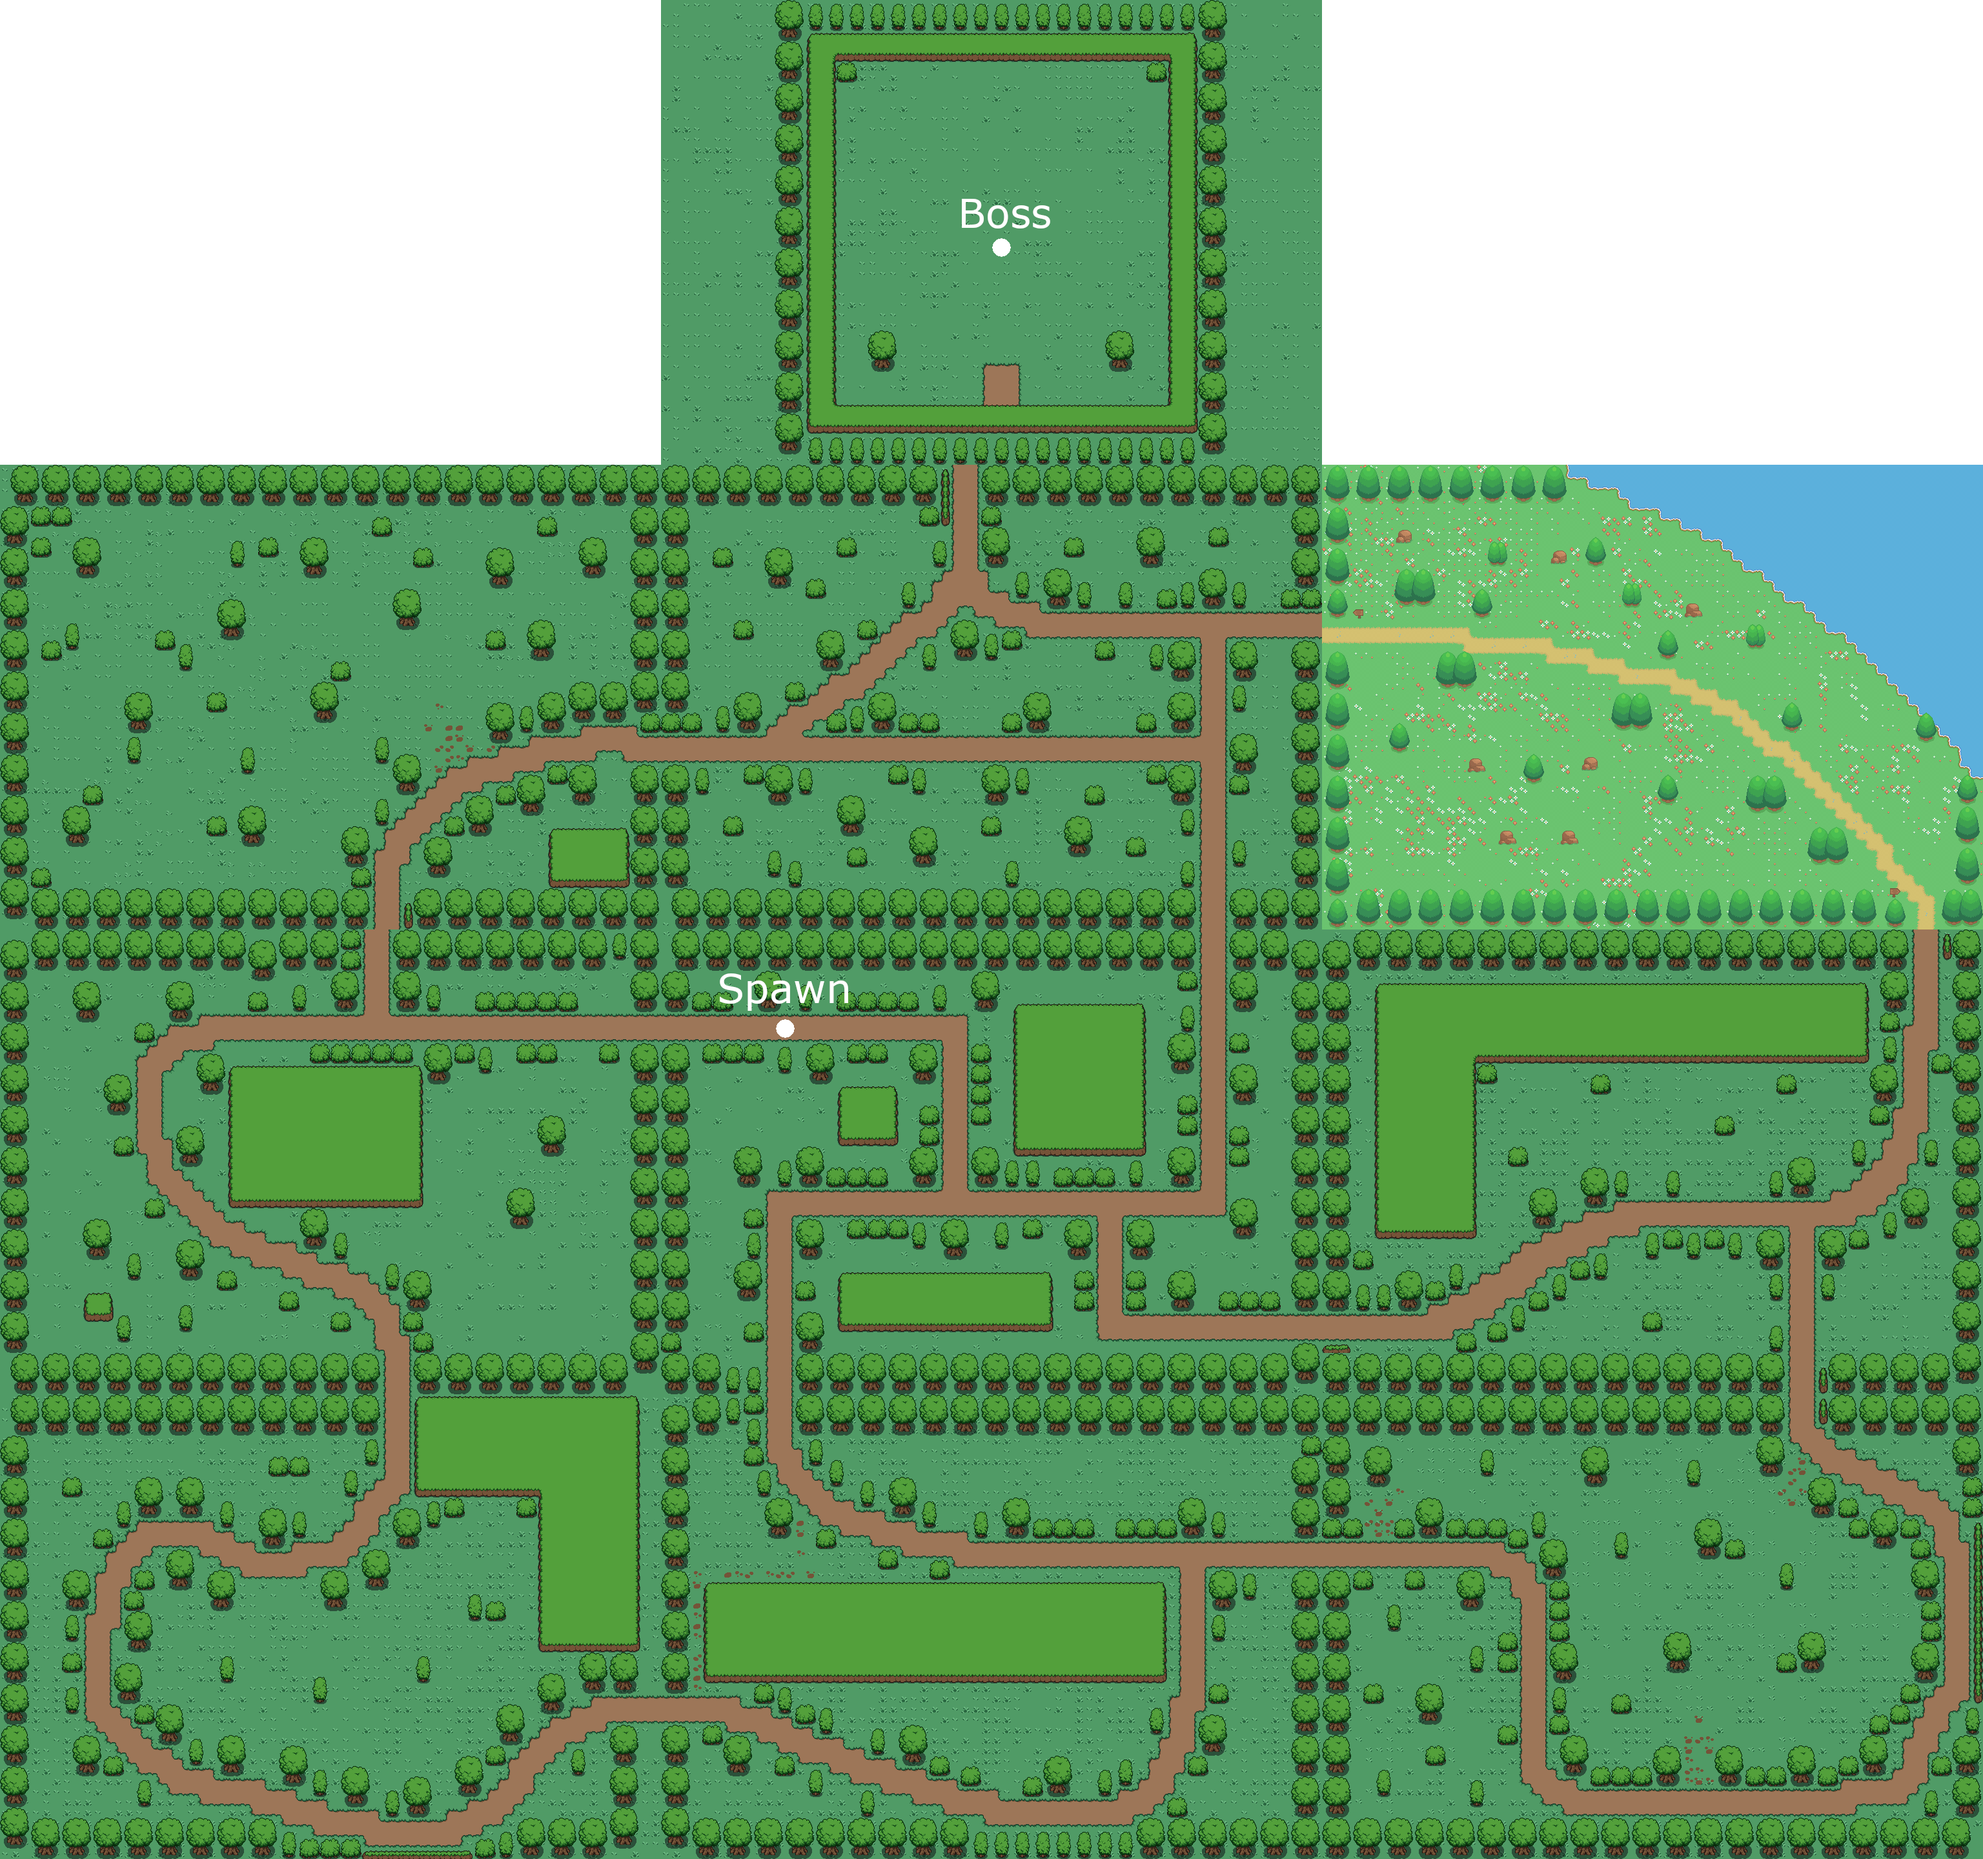
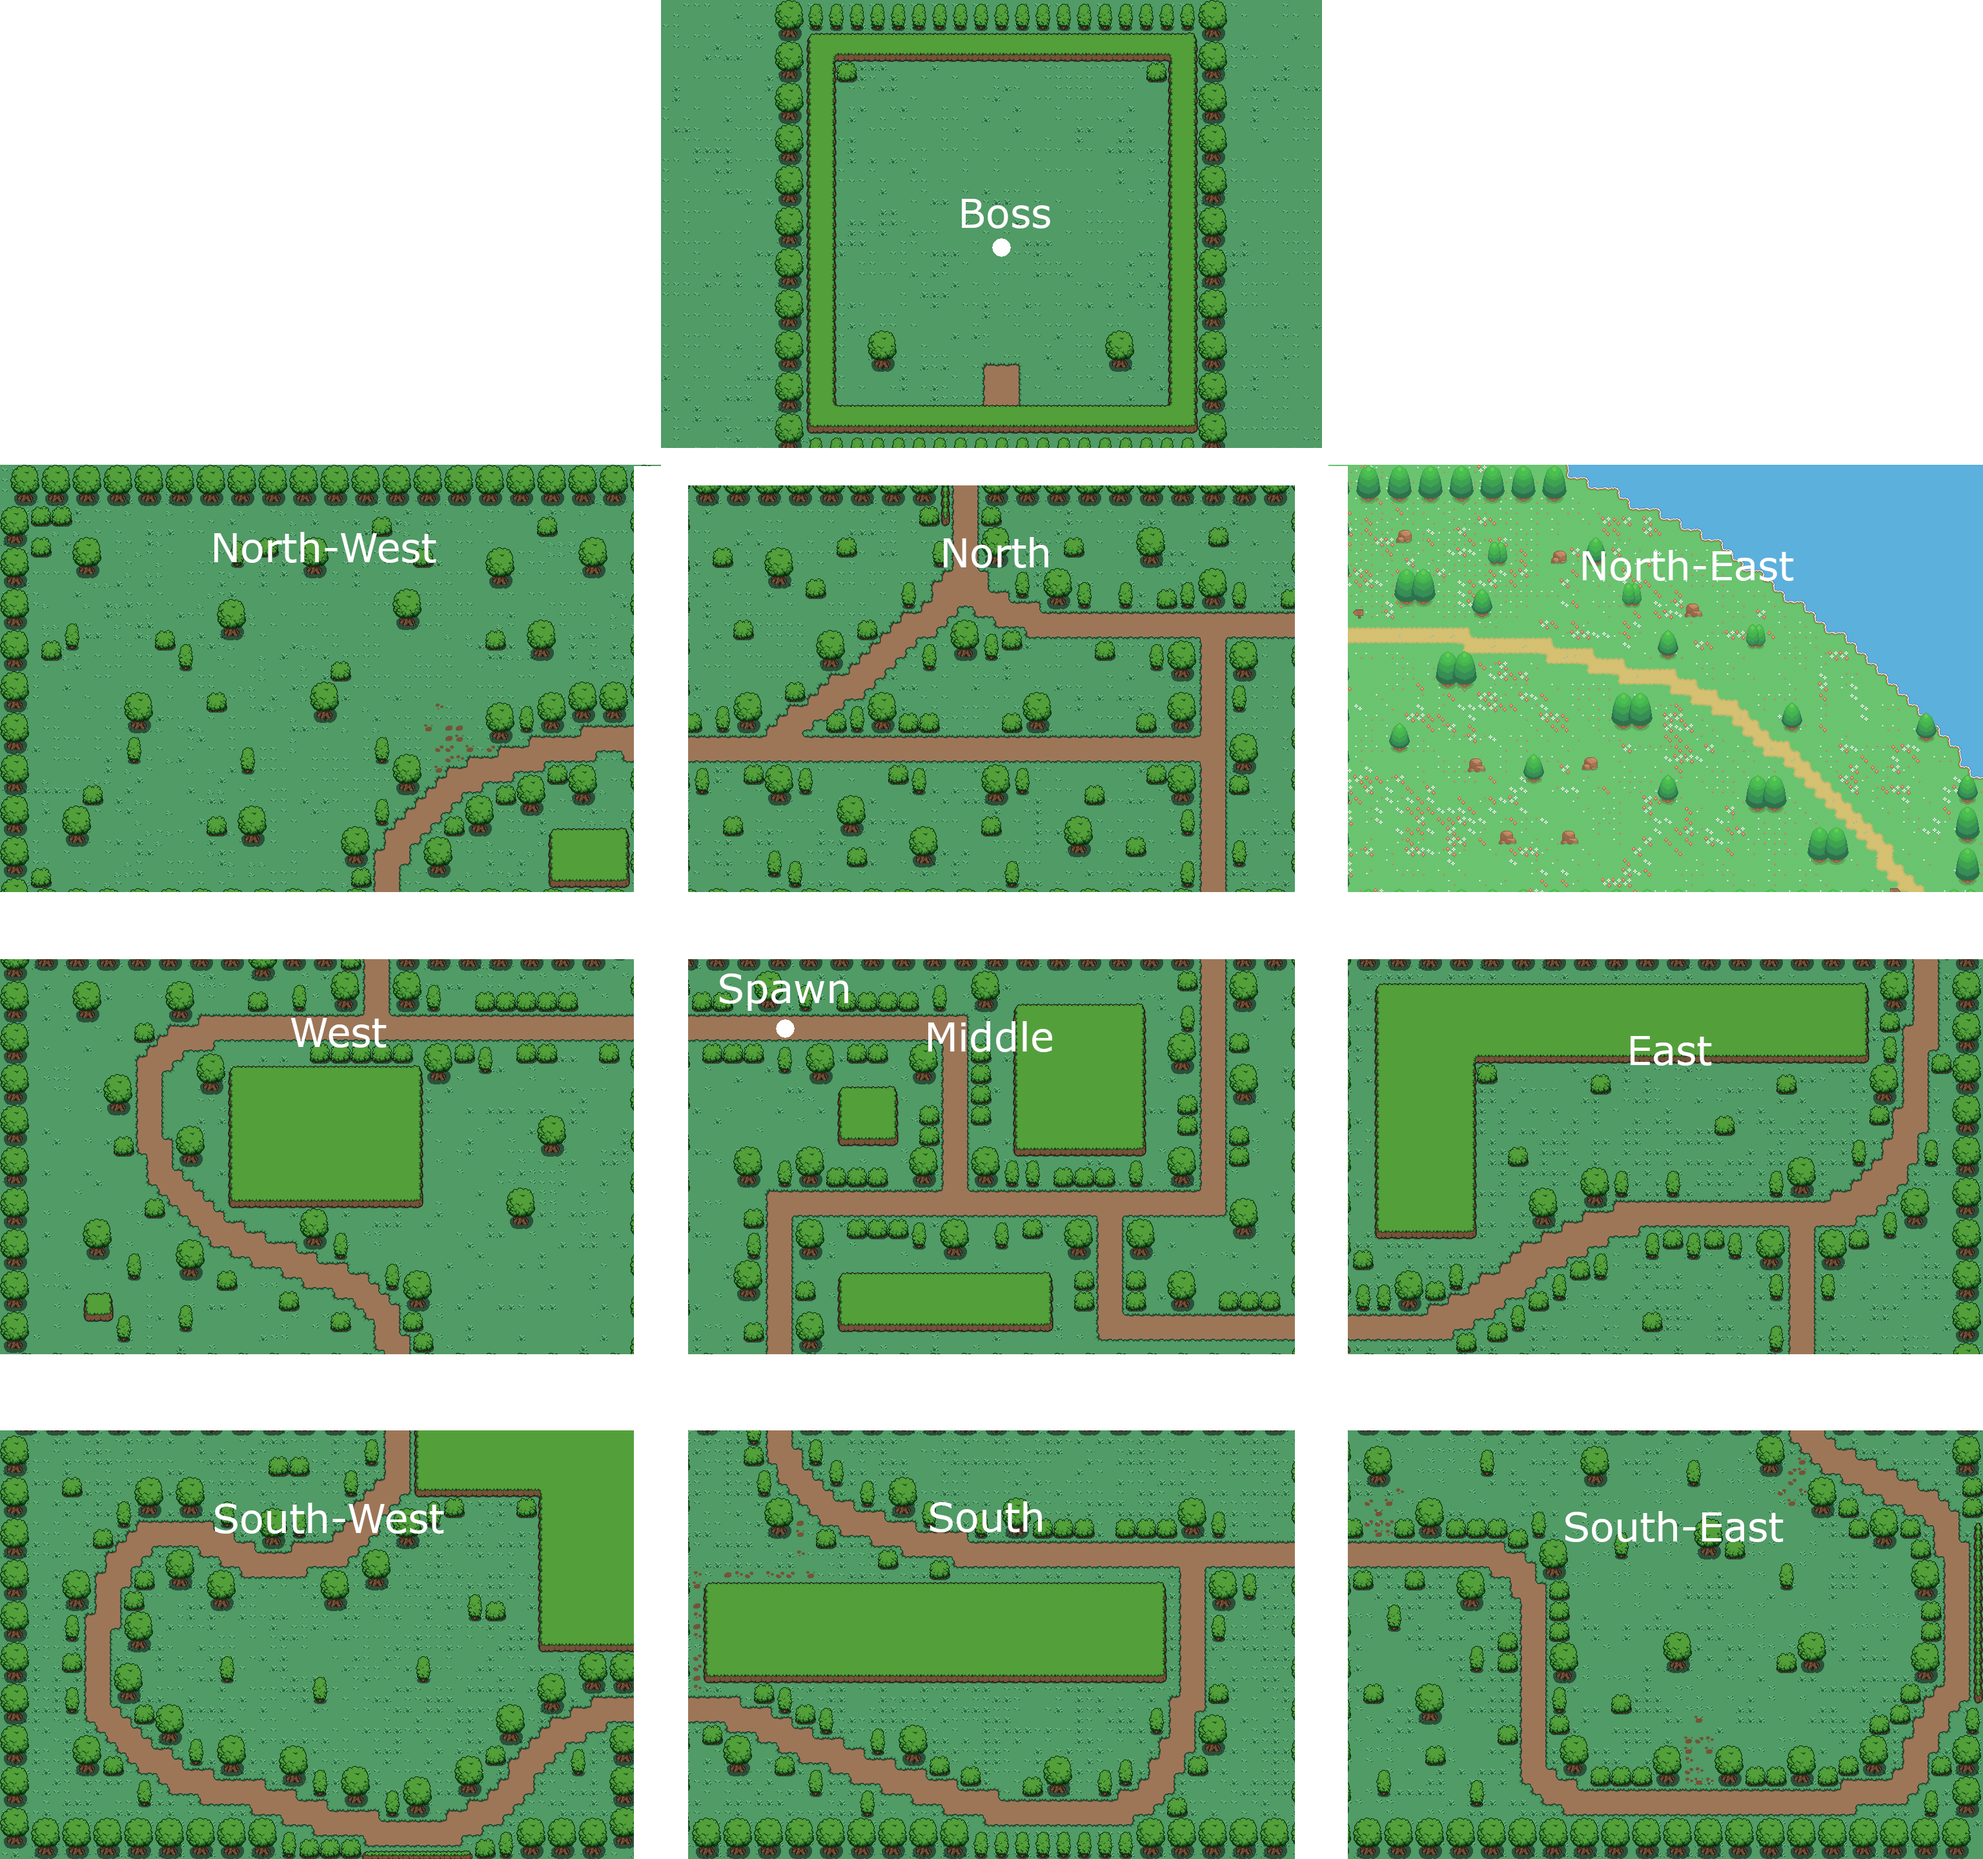
Map + Regions

diff --git a/scenes/GameUI.js b/scenes/GameUI.js
@@ -8,15 +8,20 @@ class GameUI extends Phaser.Scene {
         super({ key: 'GameUI' });
         this.hearts = null;
         this.coinsLabel = null;
+        this.mapLabel = null;
     }
 
     create() {
         // Coins Label
         this.coinsLabel = this.add.text(5, 45, 'Coins: ' + CoinCounter.getCoins(), { fontSize: '16px', fill: '#ffffff' }).setScrollFactor(0);
 
+        // Map Name Label
+        this.mapLabel = this.add.text(10, this.cameras.main.height - 30, 'Region: Middle', { fontSize: '16px', fill: '#ffffff' }).setScrollFactor(0);
+
         // Event Listener für Coins und Health
         sceneEvents.on('player-coins-changed', this.updateCoins, this);
         sceneEvents.on('player-health-changed', this.handlePlayerHealthChanged, this);
+        sceneEvents.on('update-map-name', this.updateMapName, this);
 
         // Herzen Gruppe
         this.hearts = this.add.group({
@@ -38,27 +43,27 @@ class GameUI extends Phaser.Scene {
         const iconPadding = 20;
 
         // Dash Icon
-        this.add.image(barWidth / 2 - 100 , this.cameras.main.height - barHeight / 2 + 10, 'dash_icon').setScale(iconSize / 16); // Anpassung der Größe
+        this.add.image(barWidth / 2 - 100, this.cameras.main.height - barHeight / 2 + 10, 'dash_icon').setScale(iconSize / 16);
         this.add.text(barWidth / 2 - 100 + 20, this.cameras.main.height - barHeight / 2 - 10, 'Dash', { fontSize: '18px', fill: '#ffffff' });
         this.add.text(barWidth / 2 - 100 + 20, this.cameras.main.height - barHeight / 2 + 10, 'SHIFT', { fontSize: '18px', fill: '#ffffff' });
 
         // Sword Icon
-        this.add.image(barWidth / 2, this.cameras.main.height - barHeight / 2 + 10, 'sword_icon').setScale(iconSize / 16); // Anpassung der Größe
+        this.add.image(barWidth / 2, this.cameras.main.height - barHeight / 2 + 10, 'sword_icon').setScale(iconSize / 16);
         this.add.text(barWidth / 2 + 10, this.cameras.main.height - barHeight / 2 - 10, 'Swing', { fontSize: '18px', fill: '#ffffff' });
         this.add.text(barWidth / 2 + 10, this.cameras.main.height - barHeight / 2 + 10, '-E-', { fontSize: '18px', fill: '#ffffff' });
 
         // Bow Icon
-        this.add.image(barWidth / 2 + 110 - 10, this.cameras.main.height - barHeight / 2 +10, 'bow_icon').setScale(iconSize / 16); // Anpassung der Größe
+        this.add.image(barWidth / 2 + 110 - 10, this.cameras.main.height - barHeight / 2 + 10, 'bow_icon').setScale(iconSize / 16);
         this.add.text(barWidth / 2 + 100 + 15, this.cameras.main.height - barHeight / 2 - 10, 'Shoot', { fontSize: '18px', fill: '#ffffff' });
         this.add.text(barWidth / 2 + 100 + 15, this.cameras.main.height - barHeight / 2 + 10, 'SPACE', { fontSize: '18px', fill: '#ffffff' });
 
         // Spin Icon
-        this.add.image(barWidth / 2 + 210, this.cameras.main.height - barHeight / 2 +10, 'spin_icon').setScale(iconSize / 32); // Anpassung der Größe
+        this.add.image(barWidth / 2 + 210, this.cameras.main.height - barHeight / 2 + 10, 'spin_icon').setScale(iconSize / 32);
         this.add.text(barWidth / 2 + 240, this.cameras.main.height - barHeight / 2 - 10, 'Spin', { fontSize: '18px', fill: '#ffffff' });
         this.add.text(barWidth / 2 + 240, this.cameras.main.height - barHeight / 2 + 10, '-R-', { fontSize: '18px', fill: '#ffffff' });
 
         // Map Icon
-        this.add.image(barWidth / 2 + 540, this.cameras.main.height - barHeight / 2 +10, 'map_icon').setScale(iconSize / 750); // Anpassung der Größe
+        this.add.image(barWidth / 2 + 540, this.cameras.main.height - barHeight / 2 + 10, 'map_icon').setScale(iconSize / 750);
         this.add.text(barWidth / 2 + 525, this.cameras.main.height - barHeight / 2 - 35, 'Map ', { fontSize: '18px', fill: '#ffffff' });
         this.add.text(barWidth / 2 + 525, this.cameras.main.height - barHeight / 2 - 50, '-M-', { fontSize: '18px', fill: '#ffffff' });
     }
@@ -83,9 +88,16 @@ class GameUI extends Phaser.Scene {
         }
     }
 
+    updateMapName(mapName) {
+        if (this.mapLabel) {
+            this.mapLabel.setText(`Region: ${mapName}`);
+        }
+    }
+
     shutdown() {
         sceneEvents.off('player-coins-changed', this.updateCoins, this);
         sceneEvents.off('player-health-changed', this.handlePlayerHealthChanged, this);
+        sceneEvents.off('update-map-name', this.updateMapName, this);
     }
 }
 

diff --git a/scenes/BossLevel.js b/scenes/BossLevel.js
@@ -97,6 +97,8 @@ class BossLevel extends CharacterScene {
         this.physics.add.collider(this.charakter, this.fireballGroup, this.handleFireballCollision, undefined, this)
         this.physics.add.collider(this.charakter.spinHitbox, this.orcs, this.handleSpinOrcCollision, null, this)
         
+
+        sceneEvents.emit('update-map-name', 'Boss');
     }
 
     update(time, delta) {
@@ -137,8 +139,6 @@ class BossLevel extends CharacterScene {
     
                 // Event für Charaktergesundheit aktualisieren
                 sceneEvents.emit('player-health-changed', charakter.health);
-
-        
             }
         }
     }

diff --git a/scenes/MainMap.js b/scenes/MainMap.js
@@ -118,6 +118,19 @@ class MainMap extends CharacterScene {
         this.createTransitionZone(855, 1, 40, 1, () => {
             this.scene.start('MapNorth', { charakter: this.charakter, from: 'MainMap' });
         });
+
+        sceneEvents.emit('update-map-name', 'Middle');
+    }
+
+    switchMap(mapName) {
+        // Logik zum Wechseln der Map
+
+        // Hole die GameUI-Szene
+        const gameUI = this.scene.get('GameUI');
+        
+        if (gameUI) {
+            gameUI.updateMapName(mapName); // Aktualisiere den Namen der aktuellen Map
+        }
     }
 
     update(time, delta) {

diff --git a/scenes/MapWest.js b/scenes/MapWest.js
@@ -106,7 +106,11 @@ class MapWest extends CharacterScene {
         this.createTransitionZone(585, 1, 40, 1, () => {
             this.scene.start('MapNorthWest', { charakter: this.charakter, from: 'MapWest' });
         });
+
+        sceneEvents.emit('update-map-name', 'West');
     }
+
+    
 
     update(time, delta) {
         this.updateCharacterAndOrcs();

diff --git a/scenes/MapNorthWest.js b/scenes/MapNorthWest.js
@@ -106,6 +106,8 @@ class MapNorthWest extends CharacterScene {
         this.createTransitionZone(1024, 440, 1, 40, () => {
             this.scene.start('MapNorth', { charakter: this.charakter, from: 'MapNorthWest' });
         });
+
+        sceneEvents.emit('update-map-name', 'North-West');
     }
 
     update(time, delta) {

diff --git a/scenes/MapSouthWest.js b/scenes/MapSouthWest.js
@@ -109,6 +109,8 @@ class MapSouthWest extends CharacterScene {
         this.createTransitionZone(1024, 490, 1, 40, () => {
             this.scene.start('MapSouth', { charakter: this.charakter, from: 'MapSouthWest' });
         });
+
+        sceneEvents.emit('update-map-name', 'South-West');
     }
 
     update(time, delta) {

diff --git a/scenes/MapNorthEast.js b/scenes/MapNorthEast.js
@@ -110,6 +110,8 @@ class MapNorthEast extends CharacterScene {
         this.createTransitionZone(935, 720, 40, 1, () => {
             this.scene.start('MapEast', { charakter: this.charakter, from: 'MapNorthEast' });
         });
+
+        sceneEvents.emit('update-map-name', 'North-East');
     }
 
     update(time, delta) {

diff --git a/scenes/MapSouthEast.js b/scenes/MapSouthEast.js
@@ -109,6 +109,8 @@ class MapSouthEast extends CharacterScene {
         this.createTransitionZone(1, 250, 1, 40, () => {
             this.scene.start('MapSouth', { charakter: this.charakter, from: 'MapSouthEast' });
         });
+
+        sceneEvents.emit('update-map-name', 'South-East');
     }
 
     update(time, delta) {

diff --git a/scenes/MapEast.js b/scenes/MapEast.js
@@ -108,6 +108,9 @@ class MapEast extends CharacterScene {
         this.createTransitionZone(935, 1, 40, 1, () => {
             this.scene.start('MapNorthEast', { charakter: this.charakter, from: 'MapEast' });
         });
+
+        sceneEvents.emit('update-map-name', 'East');
+    
     }
 
     update(time, delta) {

diff --git a/scenes/MapSouth.js b/scenes/MapSouth.js
@@ -108,6 +108,8 @@ class MapSouth extends CharacterScene {
         this.createTransitionZone(1024, 250, 1, 40, () => {
             this.scene.start('MapSouthEast', { charakter: this.charakter, from: 'MapSouth' });
         });
+
+        sceneEvents.emit('update-map-name', 'South');
     }
 
     update(time, delta) {

diff --git a/scenes/MapNorth.js b/scenes/MapNorth.js
@@ -112,6 +112,8 @@ class MapNorth extends CharacterScene {
         this.createTransitionZone(470, 1, 40, 1, () => {
             this.scene.start('BossLevel', { charakter: this.charakter, from: 'MapNorth' });
         });
+
+        sceneEvents.emit('update-map-name', 'North');
     }
 
     update(time, delta) {
